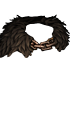
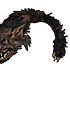
Add automatic Double Grip damage and correct wolf-headed Direwolf Fur art

Changed region(s): [[0.0, 0.0571, 1.0, 0.4571]]

diff --git a/src/app.js b/src/app.js
@@ -189,7 +189,7 @@ function market(){applyCompanyAutomation(state);save();const market=getMarket(st
 function contracts(){const t=townAt(state);if(t&&!getSettlementAccess(state,t.id).servicesAvailable){toast(getSettlementAccess(state,t.id).reason);return;}if(!t){toast('Reach a settlement to find work.');return;}if(state.contract){showModal('Your current contract',contractHTML(),t.name);return;}showModal('Available contracts',contractOffersHTML(state,getContractOffers(state,t.id)),t.name);}
 function recruitModal(){const here=townAt(state);if(here&&!getSettlementAccess(state,here.id).servicesAvailable){toast(getSettlementAccess(state,here.id).reason);return;}const settlement=townAt(state);if(!settlement){toast('Reach a settlement to hire companions.');return;}showModal('Companions for hire',hiringHTML(state,getRecruitOffers(state)),settlement.name);}
 function townService(service){const quote=getTownServiceQuote(state,service);if(!quote.townId||state.battle||state.gameOver){toast(quote.message);return;}showModal(service==='doctor'?'Doctor':'Smithy',townServiceHTML(state,quote),town(quote.townId).name);}
-function settings(){showModal('Save & offline play',`<p>Your company is saved on this device. Export a backup before travelling.</p><div class="save-note">On iPad: open in Safari online, Share → Add to Home Screen, then launch the icon. Wait for <strong>Offline ready</strong>, and test an airplane-mode relaunch before your flight.</div><div class="button-row"><button class="primary" data-action="export">Export save</button><button data-action="import">Import save</button>${corruptSave!==null?'<button data-action="export-recovery">Export damaged save</button>':''}</div><input id="import-file" class="hidden" type="file" accept=".json,application/json"><p>${saveProblem?'Autosave unavailable. Export your progress.':unreadSave?`A save could not be loaded (${esc(saveError)}). The original is preserved for export.`:'Autosave active. Saves do not sync between devices.'}</p>${companyAutomationHTML(state)}<div class="divider"></div><h3>Battle speed</h3><p>Default speed when a new battle starts. Active battles pause when you reload or return from another app.</p><div class="button-row"><button data-battle-default-speed="1" aria-pressed="${defaultBattleSpeed===1}">Normal · 1×</button><button data-battle-default-speed="4" aria-pressed="${defaultBattleSpeed===4}">Fast · 4×</button><button data-battle-default-speed="cinematic" aria-pressed="${defaultBattleSpeed==='cinematic'}" title="4× movement, slow-motion attacks and skills">Cinematic</button></div>${audioControlsHTML()}<div class="divider"></div><div class="button-row"><button class="danger" data-action="new-game">Start a new company</button></div><p class="credits">Artwork: Battle Brothers / Legends contributors. Personal noncommercial prototype. <a href="https://github.com/karmiphuc/ashen-company/blob/main/docs/ASSET-CREDITS.md" target="_blank" rel="noopener">Asset credits</a>.<br>Version 0.50.27 · Ashen Winter.</p>`);}
+function settings(){showModal('Save & offline play',`<p>Your company is saved on this device. Export a backup before travelling.</p><div class="save-note">On iPad: open in Safari online, Share → Add to Home Screen, then launch the icon. Wait for <strong>Offline ready</strong>, and test an airplane-mode relaunch before your flight.</div><div class="button-row"><button class="primary" data-action="export">Export save</button><button data-action="import">Import save</button>${corruptSave!==null?'<button data-action="export-recovery">Export damaged save</button>':''}</div><input id="import-file" class="hidden" type="file" accept=".json,application/json"><p>${saveProblem?'Autosave unavailable. Export your progress.':unreadSave?`A save could not be loaded (${esc(saveError)}). The original is preserved for export.`:'Autosave active. Saves do not sync between devices.'}</p>${companyAutomationHTML(state)}<div class="divider"></div><h3>Battle speed</h3><p>Default speed when a new battle starts. Active battles pause when you reload or return from another app.</p><div class="button-row"><button data-battle-default-speed="1" aria-pressed="${defaultBattleSpeed===1}">Normal · 1×</button><button data-battle-default-speed="4" aria-pressed="${defaultBattleSpeed===4}">Fast · 4×</button><button data-battle-default-speed="cinematic" aria-pressed="${defaultBattleSpeed==='cinematic'}" title="4× movement, slow-motion attacks and skills">Cinematic</button></div>${audioControlsHTML()}<div class="divider"></div><div class="button-row"><button class="danger" data-action="new-game">Start a new company</button></div><p class="credits">Artwork: Battle Brothers / Legends contributors. Personal noncommercial prototype. <a href="https://github.com/karmiphuc/ashen-company/blob/main/docs/ASSET-CREDITS.md" target="_blank" rel="noopener">Asset credits</a>.<br>Version 0.50.28 · Ashen Winter.</p>`);}
 function exportSave(recovery=false){const preserved=(recovery||unreadSave)&&corruptSave!==null;const text=preserved?corruptSave:JSON.stringify(state,null,2);const url=URL.createObjectURL(new Blob([text],{type:'application/json'})),a=document.createElement('a');a.href=url;a.download=preserved?'ashen-company-damaged-save.json':`ashen-company-day-${state.day}.json`;a.click();setTimeout(()=>URL.revokeObjectURL(url),10000);toast('Save exported. Keep the file as a backup.');}
 function startTravel(x,y){const r=travelTo(state,x,y);toast(r.message);if(r.ok){speed=1;tab='world';$('#modal').close();save();render();}}
 document.addEventListener('change',event=>{const input=event.target;if(input.dataset.marketFilter){const kind=input.dataset.marketFilter;if(kind==='slot')marketSlot=input.value;else if(kind==='sort')marketSort=input.value;else if(kind==='affordable')marketAffordable=input.checked;else if(kind==='rare')marketRare=input.checked;market();document.querySelector(`[data-market-filter="${kind}"]`)?.focus({preventScroll:true});return;}if(input.dataset.companyAutomation){const r=setCompanyAutomation(state,input.dataset.companyAutomation,input.checked);toast(r.message);save();render();if($('#modal').open){if($('#modal [data-market-tab]')){marketTab='supplies';market();}else settings();$('#modal [data-company-automation="'+input.dataset.companyAutomation+'"]')?.focus();}else $('[data-company-automation="'+input.dataset.companyAutomation+'"]')?.focus();return;}if(input.dataset.keepLoot===undefined)return;const index=Number(input.dataset.keepLoot);lootKeepSelection=input.checked?[...new Set([...lootKeepSelection,index])]:lootKeepSelection.filter(value=>value!==index);const scroll=captureScrollState();render();restoreScrollState(scroll);document.querySelector(`[data-keep-loot="${index}"]`)?.focus({preventScroll:true});});

diff --git a/tests/double-grip.test.js b/tests/double-grip.test.js
@@ -1,0 +1,57 @@
+import test from 'node:test';
+import assert from 'node:assert/strict';
+import {createGame,getCampSites,startBattle,advanceBattle,getItem,getDoubleGripBonus,createFamedItemId,validateSave,throwingCapacity} from '../src/engine.js';
+import {getItemDetails} from '../src/item-details.js';
+import {battleHTML} from '../src/battle-view.js';
+function fight(weapon='arming-sword'){
+ const state=createGame(251),person=state.party[0];person.equipment.weapon=weapon;person.equipment.shield='round-shield';person.armorDurability.shield=60;person.perks=[];
+ const site=getCampSites(state)[0];state.position={x:site.x,y:site.y};assert.ok(startBattle(state,site.id).ok);
+ const b=state.battle,actor=b.units.find(u=>u.id===person.id),target=b.units.find(u=>u.side==='enemy');
+ for(const tile of b.field.tiles){tile.terrain='open';tile.height=0;}
+ Object.assign(actor,{q:2,r:2,meleeSkill:200,rangedSkill:200,morale:50,ap:9,fatigue:0,turnStartedRound:b.round});
+ Object.assign(target,{q:3,r:2,hp:500,maxHp:500,bodyArmor:0,headArmor:0,attachmentArmor:0,attachment2Armor:0,meleeDefense:0,rangedDefense:0,morale:50,perks:['steel-brow']});target.equipment.shield=null;
+ let index=0;for(const u of b.units)if(u!==actor&&u!==target)Object.assign(u,{q:12,r:10+index++});
+ b.activeId=actor.id;b.turnIndex=b.turnOrder.indexOf(actor.id);b.rng=0;return {state,b,actor,target};
+}
+function hit(state){advanceBattle(state);assert.equal(state.battle.lastEvent.type,'attack',state.battle.lastEvent.message);return state.battle.lastEvent;}
+for(const weapon of ['arming-sword','fighting-knife',createFamedItemId('arming-sword',381)])test(`${weapon}: empty offhand increases real health damage by 25%`,()=>{
+ const f=fight(weapon),empty=structuredClone(f.state);empty.battle.units.find(u=>u.id===f.actor.id).equipment.shield=null;
+ const base=hit(f.state),boost=hit(empty);assert.equal(boost.hpDamage,Math.round(base.hpDamage*1.25));assert.equal(boost.skillName,base.skillName);
+});
+test('Double Grip stacks multiplicatively with Duelist',()=>{
+ const f=fight(),duelist=structuredClone(f.state),unit=duelist.battle.units.find(u=>u.id===f.actor.id);unit.equipment.shield=null;unit.perks=['duelist'];
+ const base=hit(f.state);assert.equal(hit(duelist).hpDamage,Math.round(base.hpDamage*1.25*1.12));
+});
+for(const shield of ['usable','broken'])test(`${shield} equipped shield prevents Double Grip`,()=>{
+ const f=fight(),control=structuredClone(f.state);if(shield==='broken')f.actor.shieldDurability=0;assert.equal(getDoubleGripBonus(f.actor),0);assert.equal(hit(f.state).hpDamage,hit(control).hpDamage);
+});
+test('Double Grip excludes ranged, throwing, two-handed, unarmed, and mount attacks',()=>{
+ const unit={equipment:{shield:null}};for(const id of ['hunting-bow','javelins','greatsword','pike','war-horse'])assert.equal(getDoubleGripBonus(unit,getItem(id)),0,id);
+ assert.equal(getDoubleGripBonus(unit,{damageMin:12,damageMax:20}),0,'mount bite');assert.equal(getDoubleGripBonus(unit,null),0,'unarmed');
+});
+test('reserve shields do not occupy the active offhand',()=>{
+ const f=fight();f.actor.equipment.shield=null;f.actor.reserveEquipment.shield='round-shield';assert.equal(getDoubleGripBonus(f.actor),.25);
+});
+test('bonus updates after Quick Hands swaps between melee and throwing sets',()=>{
+ const f=fight('javelins');f.actor.equipment.shield=null;f.actor.reserveEquipment={weapon:'fighting-knife',shield:null};f.actor.throwingAmmo={active:throwingCapacity('javelins'),reserve:0};f.actor.perks=['quick-hands'];
+ assert.equal(getDoubleGripBonus(f.actor),0);advanceBattle(f.state);assert.equal(f.b.lastEvent.type,'swap');assert.equal(f.actor.equipment.weapon,'fighting-knife');assert.equal(getDoubleGripBonus(f.actor),.25);
+});
+test('older battle damage keeps its previous rule',()=>{
+ const f=fight(),empty=structuredClone(f.state);delete f.b.weaponCompletionVersion;delete empty.battle.weaponCompletionVersion;empty.battle.units.find(u=>u.id===f.actor.id).equipment.shield=null;
+ assert.equal(hit(empty).hpDamage,hit(f.state).hpDamage);
+});
+test('Double Grip appears in weapon hints and active battle status, not on shielded units',()=>{
+ const f=fight();assert.match(getItemDetails(getItem('arming-sword')).notes.join(' '),/Double Grip: \+25%/);assert.doesNotMatch(getItemDetails(getItem('javelins')).notes.join(' '),/Double Grip/);
+ f.actor.equipment.shield=null;assert.match(battleHTML(f.b,0,false),/Double Grip: \+25%/);f.actor.equipment.shield='round-shield';
+ for(const u of f.b.units)u.equipment.shield='round-shield';assert.doesNotMatch(battleHTML(f.b,0,false),/battle-status-double-grip/);
+});
+test('new battles preserve automatic eligibility and damage after save reload',()=>{
+ const state=createGame(51);const person=state.party[0];person.equipment.shield=null;person.armorDurability.shield=0;const site=getCampSites(state)[0];state.position={x:site.x,y:site.y};startBattle(state,site.id);
+ const loaded=validateSave(structuredClone(state));assert.deepEqual(loaded,state);assert.equal(getDoubleGripBonus(loaded.battle.units.find(u=>u.id===person.id)),.25);
+ for(let i=0;i<12&&loaded.battle;i++){advanceBattle(loaded);assert.deepEqual(validateSave(structuredClone(loaded)),loaded);}
+});
+
+test('Double Grip boosts armor damage as well as health damage',()=>{
+ const f=fight();f.target.bodyArmor=f.target.headArmor=300;const empty=structuredClone(f.state);empty.battle.units.find(u=>u.id===f.actor.id).equipment.shield=null;
+ const base=hit(f.state),boost=hit(empty);assert.ok(boost.armorDamage>base.armorDamage);assert.ok(boost.hpDamage>=base.hpDamage);
+});

diff --git a/src/engine.js b/src/engine.js
@@ -3715,6 +3715,10 @@ function attackSkillFatigue(actor, weapon, option) {
   return hasWeaponMastery(actor,weapon)?Math.ceil(base*.75):base;
 }
 
+export function getDoubleGripBonus(unit, weapon = getItem(unit.equipment?.weapon)) {
+  return weapon?.slot==='weapon' && !weapon.ranged && !weapon.twoHanded && !unit.equipment?.shield ? .25 : 0;
+}
+
 function attackDamageRoll(battle, actor, target, weapon, base, head, option = null) {
   const ranged = weapon.ranged === true;
   const distance = hexDistance(actor, target);
@@ -3724,7 +3728,8 @@ function attackDamageRoll(battle, actor, target, weapon, base, head, option = nu
   const bonus = option?.id === 'deathblow' && (target.stunnedTurns > 0 || battle.weaponCompletionVersion===1&&target.dazedTurns>0) ? 1.5
     : option?.id === 'decapitate' && target.hp < target.maxHp ? 1.4
       : option?.id === 'power-throw' ? 1.25 : ['knock-out', 'stunning-stone'].includes(option?.id) ? .5 : option?.damageMultiplier ?? 1;
-  const damageMultiplier = (hasPerk(actor, 'executioner') && target.hp < target.maxHp ? 1.2 : 1)
+  const damageMultiplier = (battle.weaponCompletionVersion===1 ? 1+getDoubleGripBonus(actor,weapon) : 1)
+    * (hasPerk(actor, 'executioner') && target.hp < target.maxHp ? 1.2 : 1)
     * (hasPerk(actor, 'killing-frenzy') && actor.frenzyUntilRound >= battle.round ? 1.25 : 1)
     * (hasPerk(actor, 'polearm-training') && weaponMasteryMatches('polearm-training', weapon) ? 1.1 : 1)
     * (hasPerk(actor, 'shield-strike') && !ranged && actor.equipment.shield && actor.shieldDurability > 0 ? 1.1 : 1)

diff --git a/src/battle-view.js b/src/battle-view.js
@@ -2,7 +2,7 @@ import { getNightHitPenalty } from './engine.js';
 import { BATTLE_PROJECTION, tilePosition, elevationFaces } from './battle-geometry.js';
 import { enemyBattleTactic, ENEMY_TACTIC_COOLDOWN } from './tactical-ai.js';
 import { weaponSkillFamily } from './combat-skills.js';
-import { getEquipment, getItem, getMoraleEffects, isMoraleImmune, shieldMaximum } from './engine.js';
+import { getEquipment, getItem, getDoubleGripBonus, getMoraleEffects, isMoraleImmune, shieldMaximum } from './engine.js';
 import { portraitHTML, portraitWeaponAnchor, portraitGroundAnchor, itemImage } from './portraits.js';
 
 const LEGACY_FIELD = { columns: 10, rows: 5, biome: 'grassland', tiles: [] };
@@ -157,6 +157,7 @@ function perkEffectsHTML(effects) {
 
 function statusIconsHTML(unit, battle) {
   const statuses = [
+    unit.alive && battle.weaponCompletionVersion===1 && getDoubleGripBonus(unit)>0 ? ['double-grip','Double Grip: +25% one-handed melee damage with an empty offhand','<path d="M3 2h2v5l2 2 2-2V2h2v6l-3 5H6L3 8z"/>'] : null,
     unit.disarmedTurns>0?['disarmed','Disarmed: weapon attacks and reactions disabled for one turn','<path d="m2 2 12 12M3 12l9-9"/>']:null,
     unit.dazedTurns>0?['dazed','Dazed: −25% damage, fatigue capacity and initiative for '+unit.dazedTurns+' turns','<circle cx="8" cy="8" r="5"/>']:null,
     unit.staggeredTurns>0?['staggered','Staggered: −50% initiative for one turn','<path d="m3 3 10 10M13 3 3 13"/>']:null,

diff --git a/tests/attachment-assets.test.js b/tests/attachment-assets.test.js
@@ -59,6 +59,13 @@ test('Heraldic inventory and worn front/back assets are swapped together',()=>{
 
 test('new mail and pelt assets match their pinned source bytes',()=>{
  const manifest=JSON.parse(readFileSync(new URL('../assets/fur-mail-attachments-source.json',import.meta.url),'utf8'));
- assert.equal(manifest.assets.length,10);
+ assert.equal(manifest.assets.length,11);
  for(const asset of manifest.assets){const bytes=readFileSync(new URL('../'+asset.local,import.meta.url));assert.equal(bytes.length,asset.bytes);assert.equal(createHash('sha256').update(bytes).digest('hex'),asset.sha256);}
+});
+
+test('Direwolf Fur uses the wolf-headed direwolf pelt icon and both worn layers',()=>{
+ const manifest=JSON.parse(readFileSync(new URL('../assets/fur-mail-attachments-source.json',import.meta.url),'utf8'));
+ const assets=manifest.assets.filter(a=>a.itemId==='direwolf-fur');assert.equal(assets.length,3);assert.ok(assets.every(a=>a.source.includes('cloak_pelt_wolf_dire_01')));
+ const item=ARMOR_ATTACHMENTS.find(i=>i.id==='direwolf-fur'),html=portraitHTML(PERSON,{armor:ARMOR,attachment:item});
+ assert.match(html,/attachment-direwolf-fur.png/);assert.match(html,/attachment-direwolf-fur-back.png/);assert.ok(layerIndex(html,'attachment-back')<layerIndex(html,'attachment-front'));
 });

diff --git a/src/item-details.js b/src/item-details.js
@@ -56,6 +56,7 @@ export function getItemDetails(item, condition) {
       { label: 'Attack fatigue', value: String(Math.max(0,(equipmentSkills(item)[0]?.fatigue ?? item.fatigueCost ?? (ranged ? 9 : 11))+(item.fatigueOnSkillUse??0))) },
       { label: 'Hands', value: item.twoHanded ? 'Two; shield stowed' : 'One; shield allowed' },
     );
+    if (!ranged && !item.twoHanded) notes.push('Double Grip: +25% damage while the offhand is empty. An equipped shield, including a broken shield, prevents this bonus. Stacks with Duelist.');
     if (ranged) {
       stats.push({ label: 'Ammunition', value: item.throwing ? '1 bundle charge per throw' : '1 per shot' });
       if (item.throwing) stats.push({ label: 'Bundle throws', value: `${Number.isFinite(condition) ? Math.max(0, Math.min(throwingCapacity(item), condition)) : throwingCapacity(item)} / ${throwingCapacity(item)}` });

diff --git a/src/portraits.js b/src/portraits.js
@@ -181,7 +181,7 @@ export const VISUALS = {
     'stag-plates': { front: ['attachment-stag-plates.png', 5, 46] },
     'heraldic-shoulders': { front: ['attachment-heraldic-plates.png', 5, 46] },
     'double-mail': { front: ['attachment-double-mail.png', 5, 44] },
-    'direwolf-fur': { front: ['attachment-direwolf-fur.png', 5, 44] },
+    'direwolf-fur': { back: ['attachment-direwolf-fur-back.png', 0, 42, 'scale(.85)'], front: ['attachment-direwolf-fur.png', 5, 44] },
     'unhold-fur': { back: ['attachment-unhold-fur-back.png', 2, 42], front: ['attachment-unhold-fur-front.png', 5, 44] },
     'hyena-fur': { back: ['attachment-hyena-fur-back.png', 0, 42, 'scale(.8)'], front: ['attachment-hyena-fur-front.png', 5, 44] },
     'kraken-mantle': { front: ['attachment-kraken-mantle.png', 5, 46] },

diff --git a/sw.js b/sw.js
@@ -1,5 +1,5 @@
 // Generated by tools/build-cache.mjs. Do not edit by hand.
-const CACHE = "ashen-company-8458f0bd20c0b518";
+const CACHE = "ashen-company-dc35213ec69d33f2";
 const ASSETS = [
   "./",
   "./index.html",
@@ -332,6 +332,7 @@ const ASSETS = [
   "./assets/portraits/attachment-ancient-gilded-collar.png",
   "./assets/portraits/attachment-bone-platings.png",
   "./assets/portraits/attachment-chain-mantle.png",
+  "./assets/portraits/attachment-direwolf-fur-back.png",
   "./assets/portraits/attachment-direwolf-fur.png",
   "./assets/portraits/attachment-double-mail.png",
   "./assets/portraits/attachment-fur-mantle-back.png",

diff --git a/docs/ASSET-CREDITS.md b/docs/ASSET-CREDITS.md
@@ -92,3 +92,9 @@ Reproduce the architecture by running `tools/fetch-regional-scenery.py SOURCE_DI
 ### User-supplied wilderness ruins (v0.50.9)
 
 Eight building sprites are cropped from `Gemini_Generated_Image_3wfjv23wfjv23wfj.jpg`, attached by the user: ruined manor, clocktower, cathedral, chapel, windmill, house, fortress and town hall. The uniform gray background was removed through image editing; neighbouring atlas fragments were excluded, and sprites were resized for the world map. This is user-provided project artwork, not attributed to the unrelated free-asset packs. Preparation hash, crop bounds, final dimensions and file hashes are recorded in `assets/world/user-ruin-sources.json`; the crop recipe is `tools/import-user-ruins.py`.
+
+Version 0.50.28 corrects Direwolf Fur to the pinned Legends
+`inventory_cloak_pelt_wolf_dire_01.png` and corresponding front/back worn
+layers. These unchanged source PNGs include the wolf's head. The rear layer
+uses 85% CSS scale to fit the portrait. Exact source paths and hashes are in
+[fur/mail provenance](../assets/fur-mail-attachments-source.json).

diff --git a/docs/COMBAT-BUILDS.md b/docs/COMBAT-BUILDS.md
@@ -44,3 +44,13 @@ one new opponent; wounded fighters and approaches into multiple new melee
 threats still require the attack budget. Already-engaged fighters remain free
 to attack or move without being forced to retreat. Legacy battles keep their
 previous approach policy.
+
+Double Grip automatically multiplies one-handed melee weapon damage by 1.25
+when the active offhand is empty. It applies to ordinary/named weapons, weapon
+skills and weapon reactions for all factions, and is included in AI damage
+predictions. It stacks multiplicatively with Duelist (1.25 × 1.12 = 1.40).
+Ranged/throwing weapons, two-handed weapons, unarmed attacks, mount bites and
+fixed damage do not receive it. Equipped shields, including broken shields,
+prevent Double Grip; reserve shields do not. Eligibility updates on weapon
+swaps without saving an extra stat. Older pre-completion battle rules stay
+unchanged. Weapon details and a battle status icon explain the bonus.
